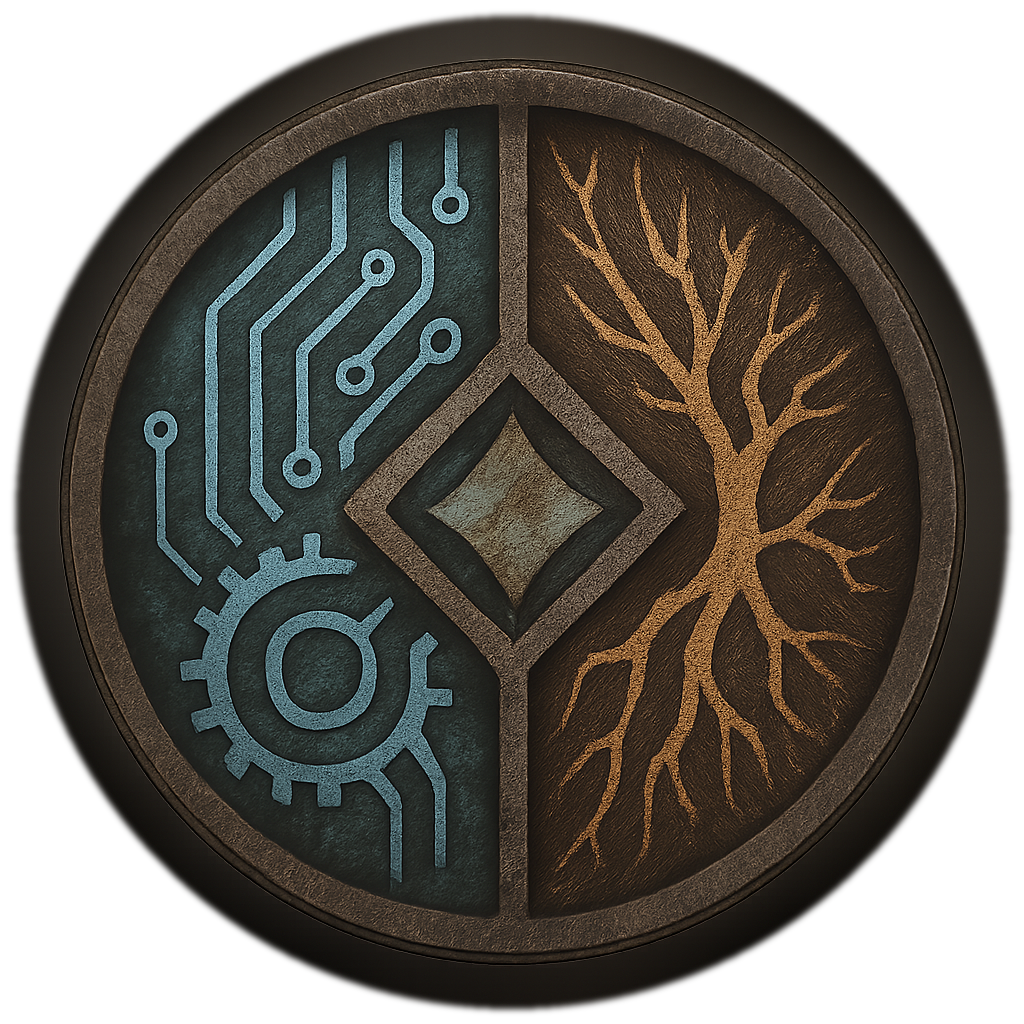
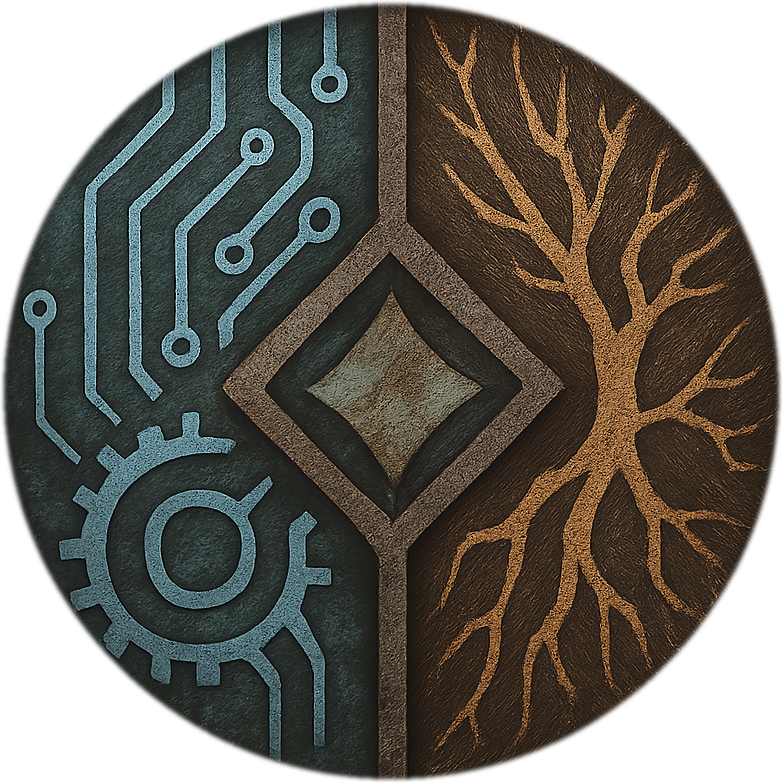
Fix: jméno hráče ve story (místo PLAYER) + čistá kruhová mince
- StoryEngine._speakerLabel: mluvčí 'player'/'kuryr' → zvolené jméno hráče (dřív se všude ukazovalo PLAYER); použito ve všech jmenovkách
- emblém/mince oříznut přesně na okraj medailonu (tmavý prstenec pryč → čistý kruh) + čistý pulzující glow za mincí
- koncový dopis (buildLetter) jméno už používá (greeting)

diff --git a/modules/StoryEngine.js b/modules/StoryEngine.js
@@ -78,6 +78,13 @@ const StoryEngine = {
     const key = String(speakerKey).toLowerCase();
     return this._speakerMap[key] || null;
   },
+  // Jmenovka mluvčího — player/kuryr ukáže jméno zvolené hráčem
+  _speakerLabel(sp) {
+    if (!sp) return '';
+    const k = String(sp).toLowerCase();
+    if (k === 'player' || k === 'kuryr') return (GameState.player.name || 'Kurýr');
+    return sp;
+  },
 
   // ── BG resolver: některé backgroundy jsou .png místo .jpg ────────────────
   _bgPngSet: new Set([
@@ -525,7 +532,7 @@ const StoryEngine = {
 
     const setLine = (speaker, text) => {
       const col = factionColor({ monyra:'hybrid', player:'neutral' }[speaker] || 'neutral');
-      textEl.innerHTML = `<span class="vn-speaker" style="color:${col}">${speaker.toUpperCase()}</span>${text}`;
+      textEl.innerHTML = `<span class="vn-speaker" style="color:${col}">${this._speakerLabel(speaker).toUpperCase()}</span>${text}`;
     };
 
     const showBtn = (label, onClick) => {
@@ -910,7 +917,7 @@ const StoryEngine = {
 
       // ── Nameplate + text ───────────────────────────────────────────────────
       nameplateSlot.innerHTML = (f.speaker || f.portrait)
-        ? `<div class="vn-nameplate"><span class="vn-nameplate-dot"></span>${(f.speaker||f.portrait).toUpperCase()}</div>`
+        ? `<div class="vn-nameplate"><span class="vn-nameplate-dot"></span>${this._speakerLabel(f.speaker||f.portrait).toUpperCase()}</div>`
         : '';
       textEl.textContent = f.text || '';
     };
@@ -1648,7 +1655,7 @@ const StoryEngine = {
     if(hasInput) {
       const allHtml = lines.map(l => `
         <div class="vn-dialog-line">
-          ${l.speaker ? `<span class="vn-speaker">${l.speaker.toUpperCase()}</span>` : ''}
+          ${l.speaker ? `<span class="vn-speaker">${this._speakerLabel(l.speaker).toUpperCase()}</span>` : ''}
           <span class="vn-text">${resolveTpl(l.text)}</span>
         </div>`).join('');
       this._container.innerHTML = `
@@ -1738,7 +1745,7 @@ const StoryEngine = {
       const panel = this._container.querySelector('.vn-panel');
       if(panel) {
         panel.innerHTML = `
-          ${speaker ? `<div class="vn-nameplate"><span class="vn-nameplate-dot"></span>${speaker.toUpperCase()}</div>` : ''}
+          ${speaker ? `<div class="vn-nameplate"><span class="vn-nameplate-dot"></span>${this._speakerLabel(speaker).toUpperCase()}</div>` : ''}
           <div class="vn-dialog-line vn-line-active">
             <span class="vn-text typewriter-text" data-full="${text.replace(/"/g,'&quot;')}"></span>
           </div>
@@ -1847,7 +1854,7 @@ const StoryEngine = {
         if(!panel) return;
         panel.innerHTML = `
           <div class="vn-dialog-line vn-line-active">
-            ${l.speaker ? `<span class="vn-speaker">${l.speaker.toUpperCase()}</span>` : ''}
+            ${l.speaker ? `<span class="vn-speaker">${this._speakerLabel(l.speaker).toUpperCase()}</span>` : ''}
             <span class="vn-text">${resolveTpl(l.text)}</span>
           </div>
           <div class="vn-choices">

diff --git a/modules/BattleSystem.js b/modules/BattleSystem.js
@@ -214,18 +214,30 @@ const BattleSystem = {
         align-items: center; gap: 28px;
       }
       .cf-logo-wrap {
-        cursor: pointer;
+        cursor: pointer; position: relative;
         display: flex; align-items: center; justify-content: center;
       }
+      /* Čistý kruhový glow za mincí (efekt kolem, ale čistě) */
+      .cf-logo-wrap::before {
+        content: ''; position: absolute; left: 50%; top: 50%;
+        width: 280px; height: 280px; transform: translate(-50%,-50%);
+        border-radius: 50%;
+        background: radial-gradient(circle, rgba(79,163,224,0.22) 0%, rgba(80,224,184,0.10) 42%, rgba(0,0,0,0) 68%);
+        pointer-events: none;
+        animation: cf-glow-pulse 3.5s ease-in-out infinite;
+      }
+      @keyframes cf-glow-pulse { 0%,100%{opacity:0.65;transform:translate(-50%,-50%) scale(0.98)} 50%{opacity:1;transform:translate(-50%,-50%) scale(1.05)} }
       .cf-logo {
-        width: 200px; height: 200px;
+        width: 210px; height: 210px;
         object-fit: contain;
-        filter: drop-shadow(0 0 12px rgba(79,163,224,0.4));
-        transition: filter 0.3s ease;
-        display: block;
+        border-radius: 50%;
+        filter: drop-shadow(0 3px 14px rgba(0,0,0,0.55));
+        transition: filter 0.3s ease, transform 0.3s ease;
+        display: block; position: relative;
       }
       .cf-logo-wrap:hover .cf-logo {
-        filter: drop-shadow(0 0 22px rgba(79,163,224,0.8));
+        filter: drop-shadow(0 0 20px rgba(79,163,224,0.6));
+        transform: scale(1.03);
       }
       .cf-logo.spinning {
         animation: cf-spin 0.75s cubic-bezier(0.2, 0.05, 0.3, 1) forwards;
